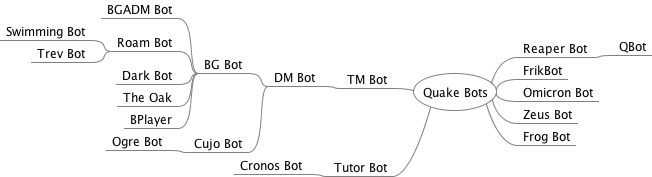
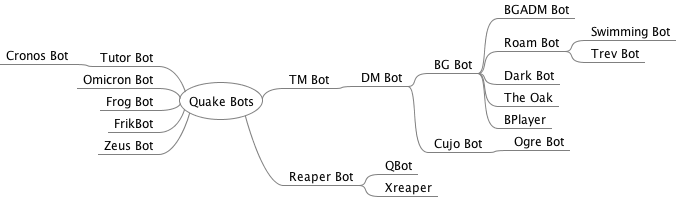
added reference to Xreaper

diff --git a/mindmap/QuakeBots.mm b/mindmap/QuakeBots.mm
@@ -1,14 +1,10 @@
 <map version="1.0.1">
 <!-- To view this file, download free mind mapping software FreeMind from http://freemind.sourceforge.net -->
 <node CREATED="1622514182273" ID="ID_507786403" MODIFIED="1622515113377" TEXT="Quake Bots">
-<node CREATED="1622514191836" ID="ID_937776968" MODIFIED="1622514695930" POSITION="right" TEXT="Reaper Bot">
-<node CREATED="1622591700948" ID="ID_1772656642" MODIFIED="1622591704280" TEXT="QBot"/>
+<node CREATED="1622514794312" ID="ID_565546253" MODIFIED="1622514799871" POSITION="left" TEXT="Tutor Bot">
+<node CREATED="1622514804704" ID="ID_11024833" MODIFIED="1622514812370" TEXT="Cronos Bot"/>
 </node>
-<node CREATED="1622514879263" ID="ID_981472223" MODIFIED="1622514883843" POSITION="right" TEXT="FrikBot"/>
-<node CREATED="1622514212533" ID="ID_723841812" MODIFIED="1622514703771" POSITION="right" TEXT="Omicron Bot"/>
-<node CREATED="1622515114030" ID="ID_1053807187" MODIFIED="1622515117059" POSITION="right" TEXT="Zeus Bot"/>
-<node CREATED="1622514920508" ID="ID_432501820" MODIFIED="1622514924237" POSITION="right" TEXT="Frog Bot"/>
-<node CREATED="1622514200034" ID="ID_1362333058" MODIFIED="1622514302490" POSITION="left" TEXT="TM Bot">
+<node CREATED="1622514200034" ID="ID_1362333058" MODIFIED="1622514302490" POSITION="right" TEXT="TM Bot">
 <node CREATED="1622514242481" ID="ID_1334863165" MODIFIED="1622585805922" TEXT="DM Bot">
 <node CREATED="1622514306066" ID="ID_477049570" MODIFIED="1622514845095" TEXT="BG Bot">
 <node CREATED="1622514460724" ID="ID_262962540" MODIFIED="1622514688010" TEXT="BGADM Bot"/>
@@ -25,8 +21,13 @@
 </node>
 </node>
 </node>
-<node CREATED="1622514794312" ID="ID_565546253" MODIFIED="1622514799871" POSITION="left" TEXT="Tutor Bot">
-<node CREATED="1622514804704" ID="ID_11024833" MODIFIED="1622514812370" TEXT="Cronos Bot"/>
+<node CREATED="1622514212533" ID="ID_723841812" MODIFIED="1622514703771" POSITION="left" TEXT="Omicron Bot"/>
+<node CREATED="1622514920508" ID="ID_432501820" MODIFIED="1622514924237" POSITION="left" TEXT="Frog Bot"/>
+<node CREATED="1622514879263" ID="ID_981472223" MODIFIED="1622514883843" POSITION="left" TEXT="FrikBot"/>
+<node CREATED="1622515114030" ID="ID_1053807187" MODIFIED="1622515117059" POSITION="left" TEXT="Zeus Bot"/>
+<node CREATED="1622514191836" ID="ID_937776968" MODIFIED="1622514695930" POSITION="right" TEXT="Reaper Bot">
+<node CREATED="1622591700948" ID="ID_1772656642" MODIFIED="1622591704280" TEXT="QBot"/>
+<node CREATED="1622593071377" ID="ID_561622825" MODIFIED="1622593075037" TEXT="Xreaper"/>
 </node>
 </node>
 </map>

diff --git a/README.md b/README.md
@@ -2,7 +2,12 @@
 
 This project is my attempt to locate, archive/mirror, and playtest every quake 1 bot that I can find.
 
+## Quake Bot Genealogy
+
 ![Quake Bot Genealogy](mindmap/QuakeBots.png)
+
+
+## Quake Bot List
 
 Bot Name | Bot Author(s) | File | Playtested | Video
 --- | --- | --- | --- | ---
@@ -26,6 +31,7 @@ Cujo | Jonathan E. Wright | [cujo14.zip](bin/cujo14.zip) | Yes |
 Ogre Bot | "Lava Man" | [ogrebot.zip](bin/ogrebot.zip) | Yes |
 Trevor McDoanld Bot (TrevBot) | Kris O'Shea | [trevbot.zip](bin/trevbot.zip) | Yes |
 Quake Bot (QBot) | ? | [qbot11.zip](bin/qbot11.zip) | Yes |
+Xreaper | ? | xreaperb130.zip | |
 
 
 
